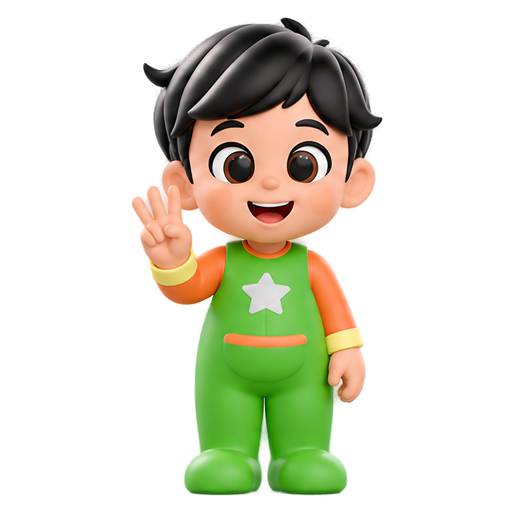
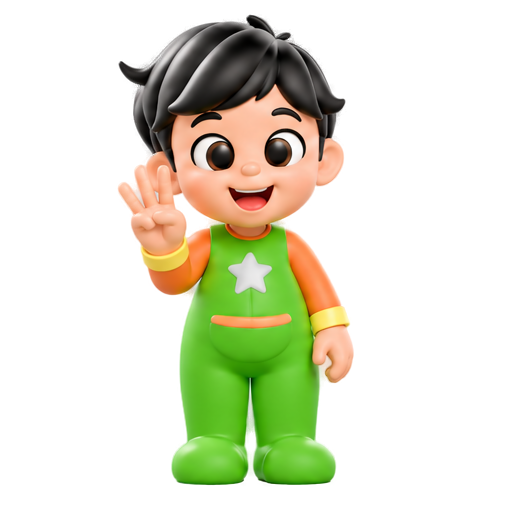
Render 3: replace explain-4-three with the owner's chosen three-finger pose
Claude-Session: https://claude.ai/code/session_013wiJDRdH28m1FqwwMnvbtM

Changed region(s): [[0.2188, 0.0312, 0.75, 0.9688]]

diff --git a/art/baby-mo-render3/README.md b/art/baby-mo-render3/README.md
@@ -28,4 +28,5 @@ Screens are flat magenta so real app footage can be keyed onto them.
 
 Regenerated on 21 Nov 2026 (`sheets/sheet-04-walk.jpg`, `sheets/sheet-11-fixes.jpg`, cut by
 `tools/cut-render3-fixes.py`, on a flat grey background): the walk cycle, counting three, a clearer idle
-sway left/right with a breathe-in frame, and a two-frame hand wash with its water drops kept.
+sway left/right with a breathe-in frame, and a two-frame hand wash with its water drops kept. `explain-4-three` was replaced again from
+`sheets/sheet-12-three.jpg` (cell 1), the owner's chosen three-finger pose.
